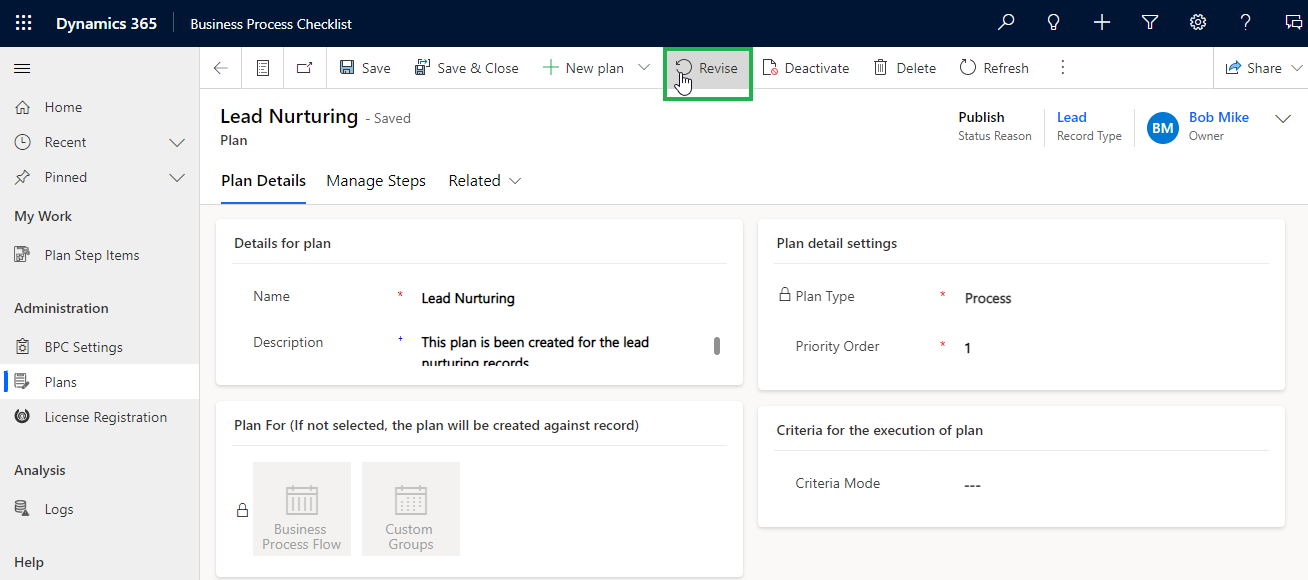
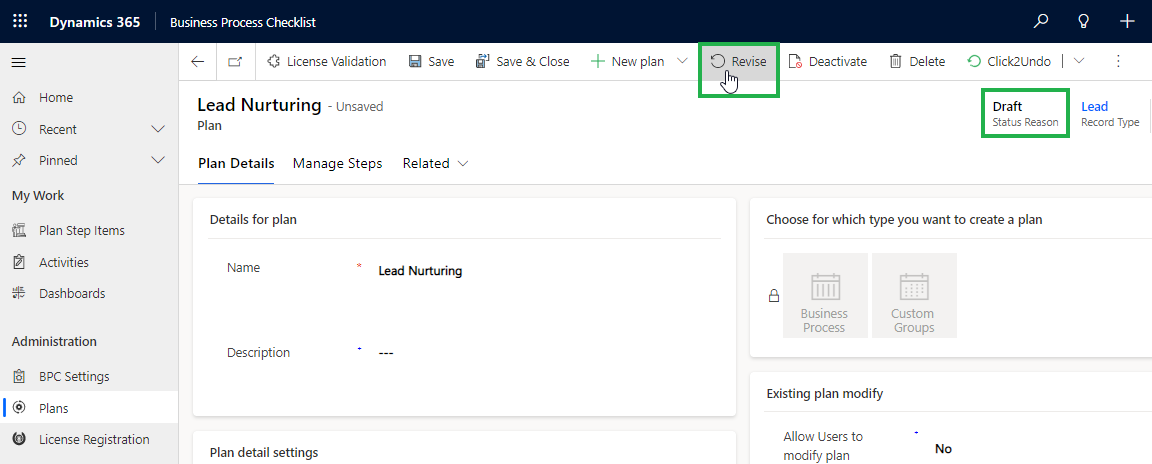
GitBook: [#3055] No subject

diff --git a/business-process-checklist/features/manage-plans/revise-plan.md b/business-process-checklist/features/manage-plans/revise-plan.md
@@ -10,7 +10,7 @@ To revise existing published plans for both process and checklist - type plans, 
 
 * To revise existing published plans navigate to **Plans --> Open existing published plan**.
 
-<figure><img src="../../../.gitbook/assets/revise plan_1 (4).png" alt=""><figcaption></figcaption></figure>
+<figure><img src="../../../.gitbook/assets/revise plan_1 (1).png" alt=""><figcaption></figcaption></figure>
 
 * Click on the **'Revise'** Button, this will change the plan status to **Draft**.
 
@@ -18,11 +18,11 @@ To revise existing published plans for both process and checklist - type plans, 
 Note: Locked Fields can't be edited.
 {% endhint %}
 
-<figure><img src="../../../.gitbook/assets/revise plan_2 (1).png" alt=""><figcaption></figcaption></figure>
+<figure><img src="../../../.gitbook/assets/revise plan_2.png" alt=""><figcaption></figcaption></figure>
 
 * Make the required changes to the plan **-->** Click on the **‘Publish’** button.
 
-<figure><img src="../../../.gitbook/assets/revise plan_3 (1).png" alt=""><figcaption></figcaption></figure>
+<figure><img src="../../../.gitbook/assets/revise plan_3.png" alt=""><figcaption></figcaption></figure>
 
 ### 2) Plan steps
 
@@ -51,26 +51,22 @@ Note: Locked Fields can't be edited.
 
 * To revise existing published plans navigate to **Plans --> Open existing published plan**.
 
-<figure><img src="../../../.gitbook/assets/revise plan  (2).png" alt=""><figcaption></figcaption></figure>
+<figure><img src="../../../.gitbook/assets/Revise plan 1.png" alt=""><figcaption></figcaption></figure>
 
 * Click on the **'Revise'** Button, this will change the plan status to **Draft**.
 
-<figure><img src="../../../.gitbook/assets/revise plan_1 (1).png" alt=""><figcaption></figcaption></figure>
+<figure><img src="../../../.gitbook/assets/Revise plan 2.png" alt=""><figcaption></figcaption></figure>
 
-* Make the required changes to the plan **-->** Click on the **‘Save’** button.
+* Make the required changes to the plan **-->** Click on the **‘Publish’** button.
 
-<figure><img src="../../../.gitbook/assets/revise plan _2.png" alt=""><figcaption></figcaption></figure>
+<figure><img src="../../../.gitbook/assets/Revise plan 3.png" alt=""><figcaption></figcaption></figure>
 
 ### 2) Plan Step
 
-* To Edit Plan Step navigate to **--> Manage Steps --> Select** the **Existing Plan Step** you want to edit **-->** Click on the **'Edit' Button**.
+* To Edit Plan Step navigate to **--> Manage Steps -->** Click on **Revise--> Select** the **Existing Plan Step** you want to edit **-->** Click on the **'Edit' Button**.
 
-<figure><img src="../../../.gitbook/assets/Edit Plan Step_1.png" alt=""><figcaption></figcaption></figure>
+<figure><img src="../../../.gitbook/assets/Revise plan step 1.png" alt=""><figcaption></figcaption></figure>
 
-* Make the required changes to the plan step **-->** Click on **‘Save’**.
+* Make the required changes to the plan step **-->** Click on **‘Publish’**.
 
-<figure><img src="../../../.gitbook/assets/revise plan step (2).png" alt=""><figcaption></figcaption></figure>
-
-* Click on **'Publish'.**
-
-<figure><img src="../../../.gitbook/assets/Publish checklist (1) (1).png" alt=""><figcaption></figcaption></figure>
+<figure><img src="../../../.gitbook/assets/Publish plan step changes.png" alt=""><figcaption></figcaption></figure>
